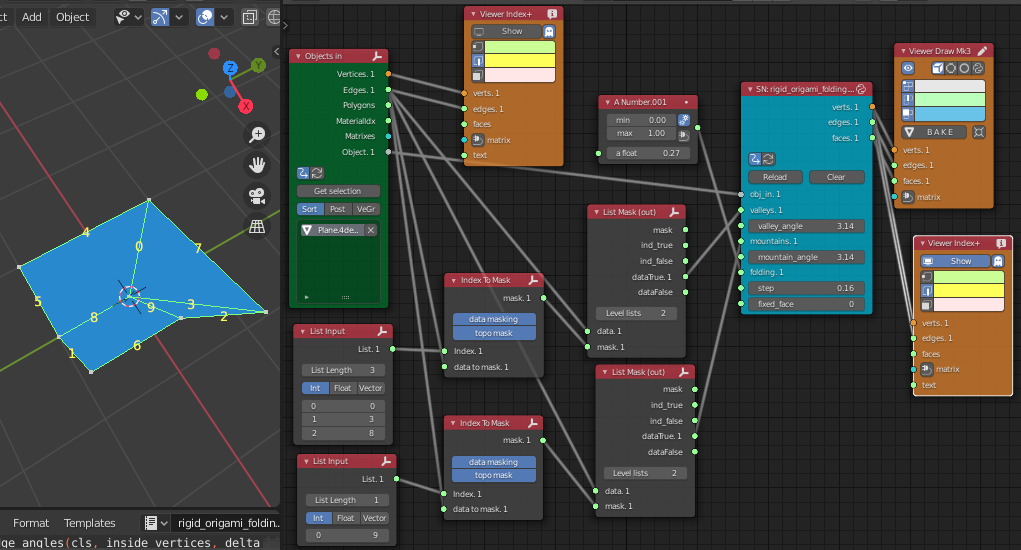
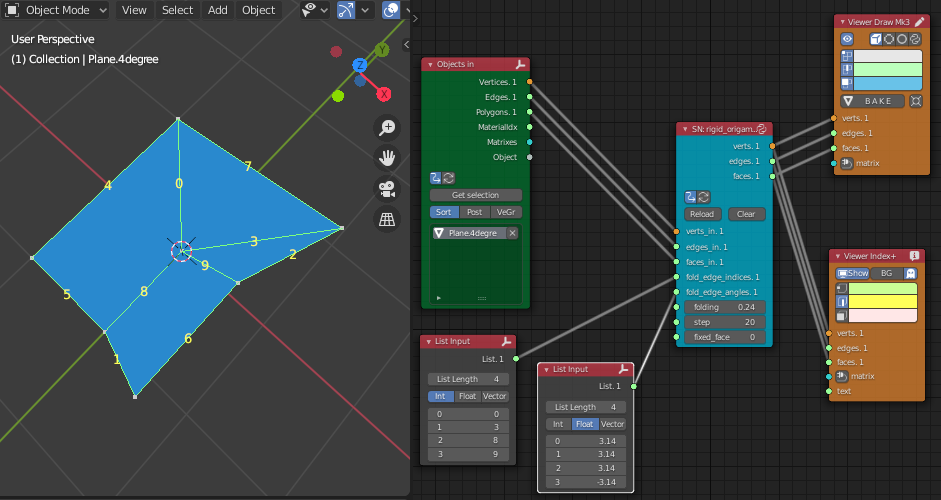
Update the document and images of this node.

diff --git a/README.md b/README.md
@@ -11,6 +11,9 @@ https://origami.c.u-tokyo.ac.jp/~tachi/cg/SimulationOfRigidOrigami_tachi_4OSME.p
 
 ### sverchok
 
+This script node was already merged in sverchok's master as rigid origami full node (Aug. 20, 2020). You can use it without the following process if you will not use this as SNLite script node.
+https://github.com/nortikin/sverchok/pull/3416
+
 * Download ./sverchok/rigid_origami_folding.py
 * Open Blender and load the script in Blender's text editor
 * Add SNLite script node in sverchok node tree
@@ -19,7 +22,7 @@ https://origami.c.u-tokyo.ac.jp/~tachi/cg/SimulationOfRigidOrigami_tachi_4OSME.p
 
 ### animation nodes
 
-(constructing)
+Rigid origami script for animation nodes add-on is also stored in this repository. You can load the script for animation nodes in animation-nodes editor like sverchok, so the rest details are skipped.
 
 ## Usage
 
@@ -30,21 +33,21 @@ After loading script in SNLite script node, the nodes will show its parameters. 
 
 Parameters:
 
-- obj_in:&emsp; paper object which has some edges inside
-- valleys:&emsp; edge list for valley folding
-- valley_angle:&emsp; angle (radian) of valley edges
-- mountains:&emsp; edge list for mountain folding
-- mountain_angle:&emsp; angle (radian) of mountain edges
+- verts_in:&emsp; Vertices of a source paper object
+- edges_in:&emsp; Edges of a source paper object
+- faces_in:&emsp; Faces of a source paper object
+- fold_edge_indices:&emsp; Edge indices to be folded
+- fold_edge_angles:&emsp; Target edge angles for each edges to be folded
 - folding:&emsp; ratio of the folding angle (0 to 1)
-- step:&emsp; delta rho angle step (for example,  pi * 0.005, pi * 0.01, pi * 1.0)
-- fixed_face:&emsp; index number of fixed face
+- step:&emsp; step count to calculate destination angles
+- fixed_face:&emsp; index number of fixed face (to be kept stand still)
 
 This image is an example of the node tree.
 ![Example of the node tree](./images/rigid_origami_folding_node_tree_screen_shot.png)
 
 ### animation nodes
 
-(constructing)
+The way to use the node is similar to the sverchok's node. So the details in animation nodes are skipped.
 
 ## Requirements
 
